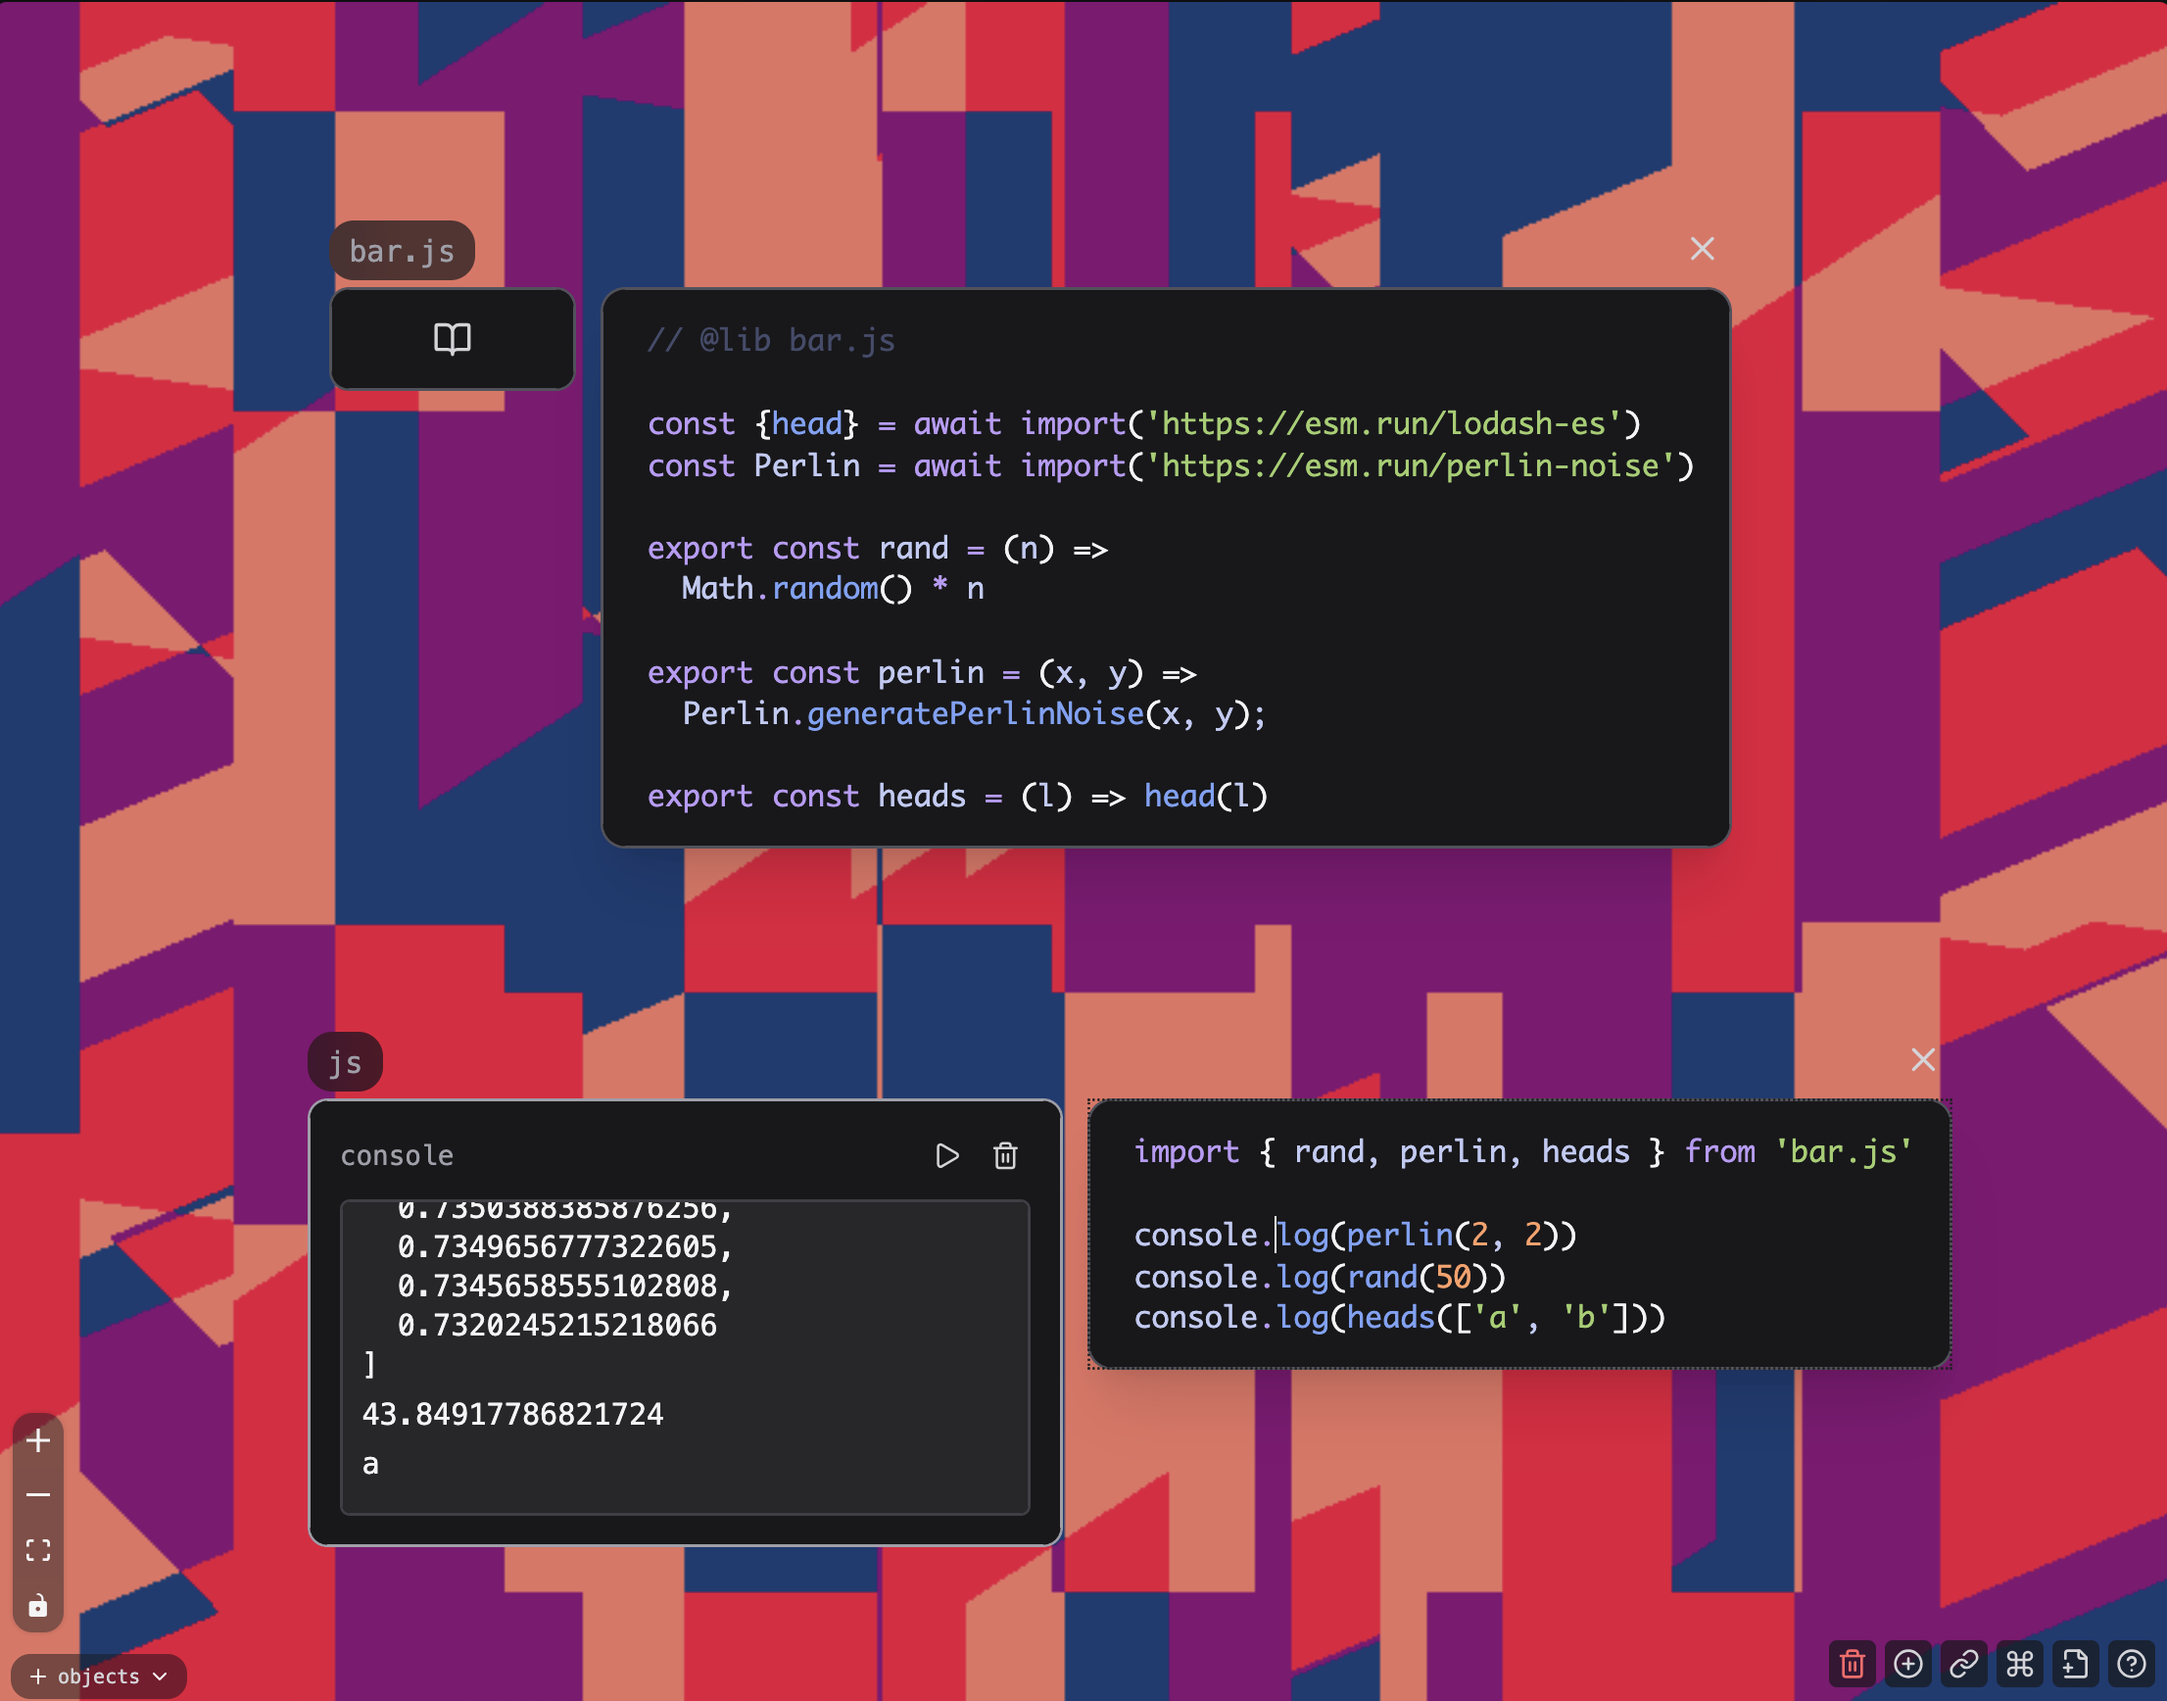
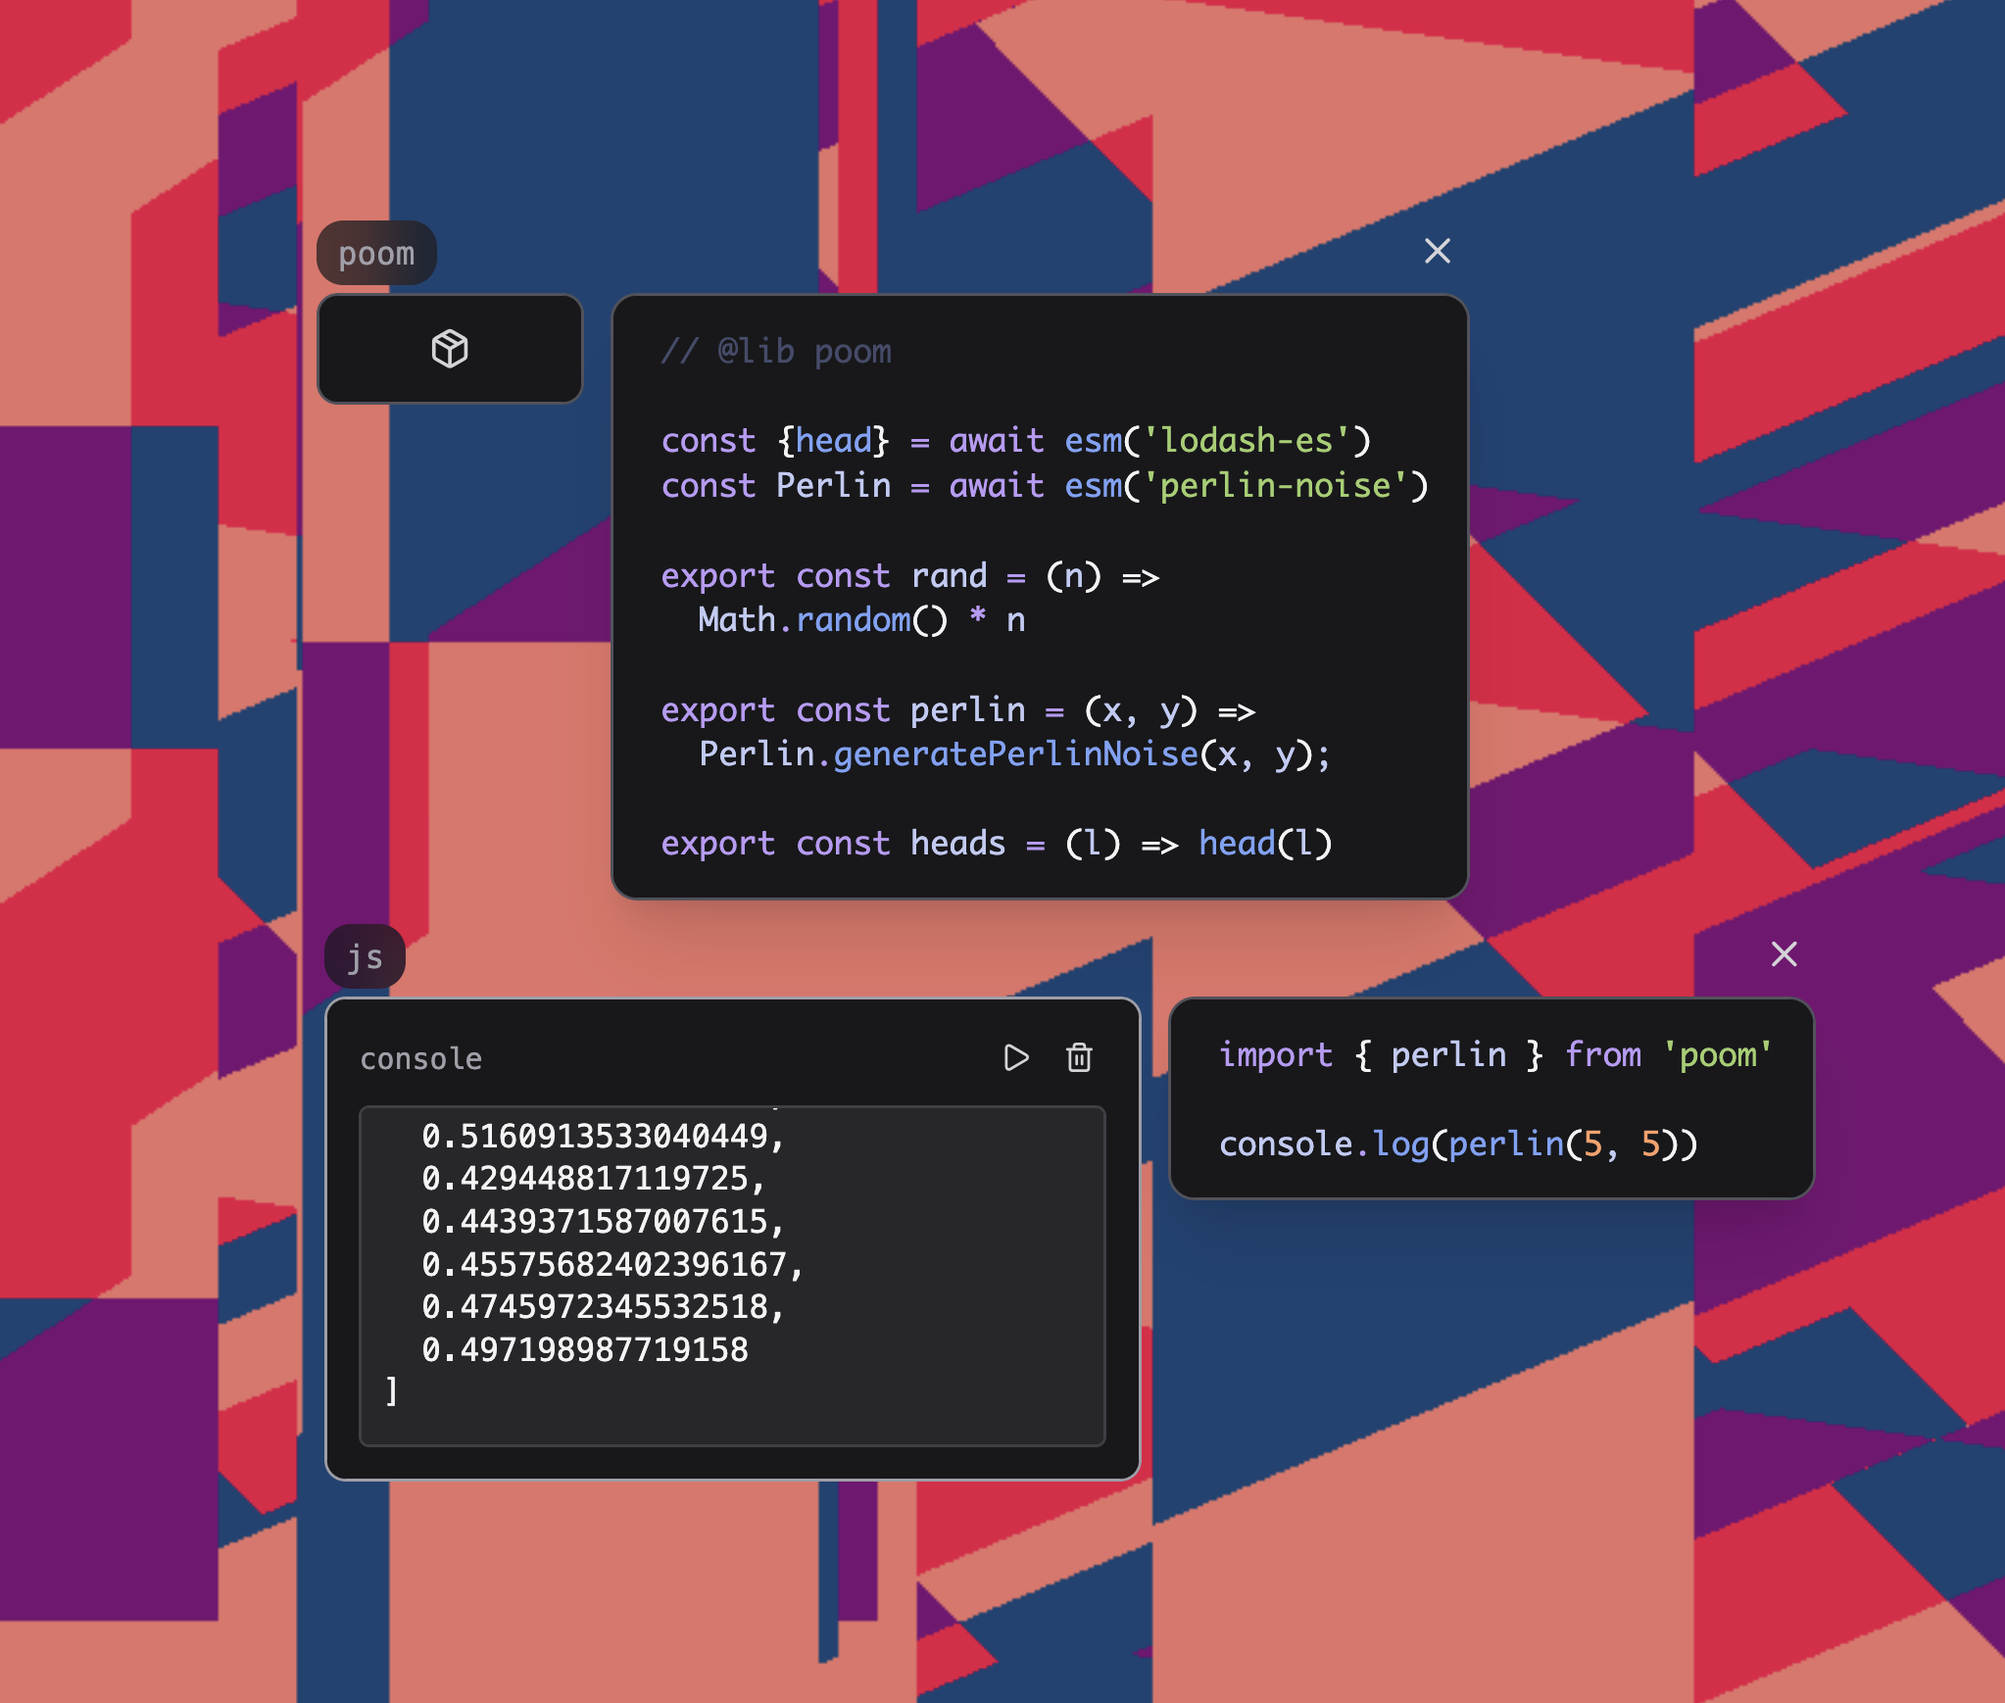
docs: update image on js patcher

diff --git a/README.md b/README.md
@@ -381,7 +381,7 @@ Supported uniform types are `bool` (boolean), `int` (number), `float` (floating 
 - Top-level awaits are supported.
   - Use `await delay(ms)` to pause the code for `ms` milliseconds. For example, `await delay(1000)` pauses the code for 1 second.
 
-#### Importing external dependencies:
+#### Importing external dependencies
 
 - Import external modules via `const M = await import('https://esm.run/<module>')` to use any NPM package in your code. For example, to use `lodash-es`:
 
@@ -401,10 +401,10 @@ Supported uniform types are `bool` (boolean), `int` (number), `float` (floating 
 
 You can share JavaScript code across multiple `js` blocks by using the `// @lib <library-name>` comment at the top of your code.
 
-- For example, `// @lib bar.js` will register the library as `bar.js`. This will turn the object into a library object, as indicated by the book icon.
+- For example, `// @lib bar` will register the library as `bar.js`. This will turn the object into a library object, as shown by the package icon.
 - In your library object, use ES modules `export` syntax, e.g. `export const rand = () => Math.random()`. This works for everything: classes, functions, modules.
   - Note that the constants are NOT shared across objects. Each object has their own isolated execution context. You cannot create shared singletons. Use [message passing](#message-passing) to communicate between objects.
-- You can then use ES modules syntax like `import { Bar } from 'bar.js'`.
+- You can then use ES modules syntax like `import { Bar } from 'bar'`.
 
 See the following example:
 
